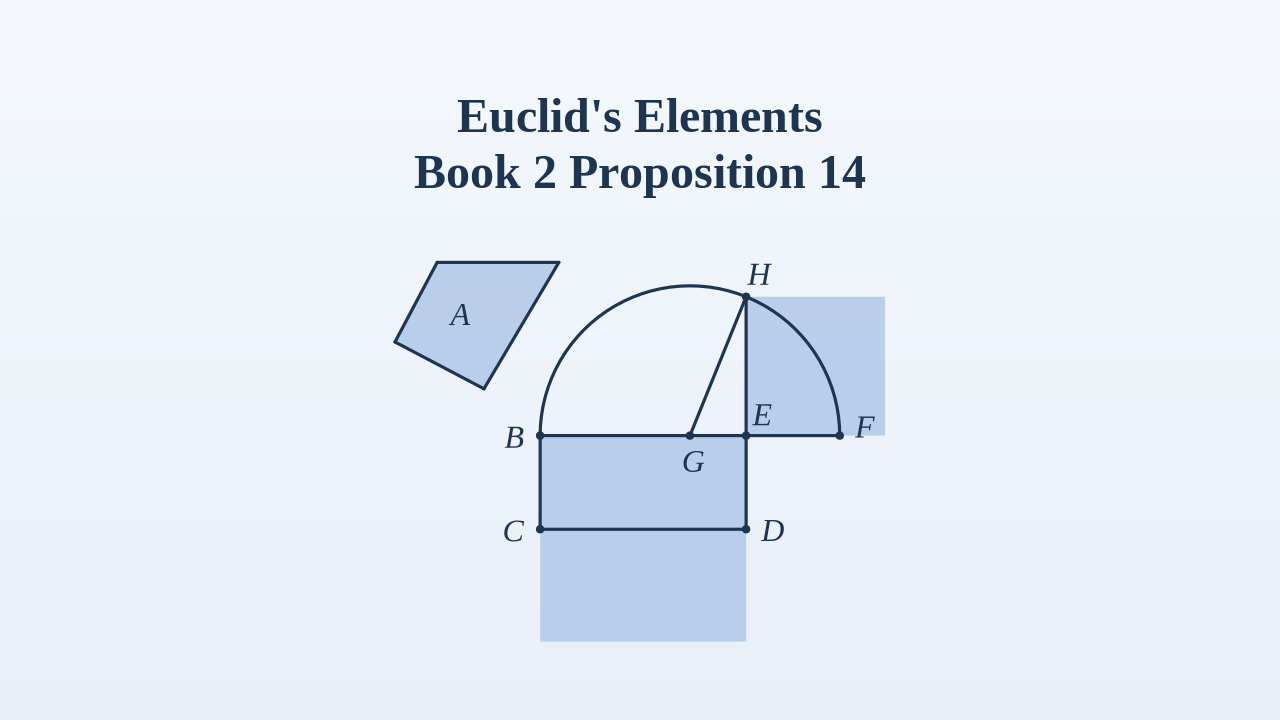
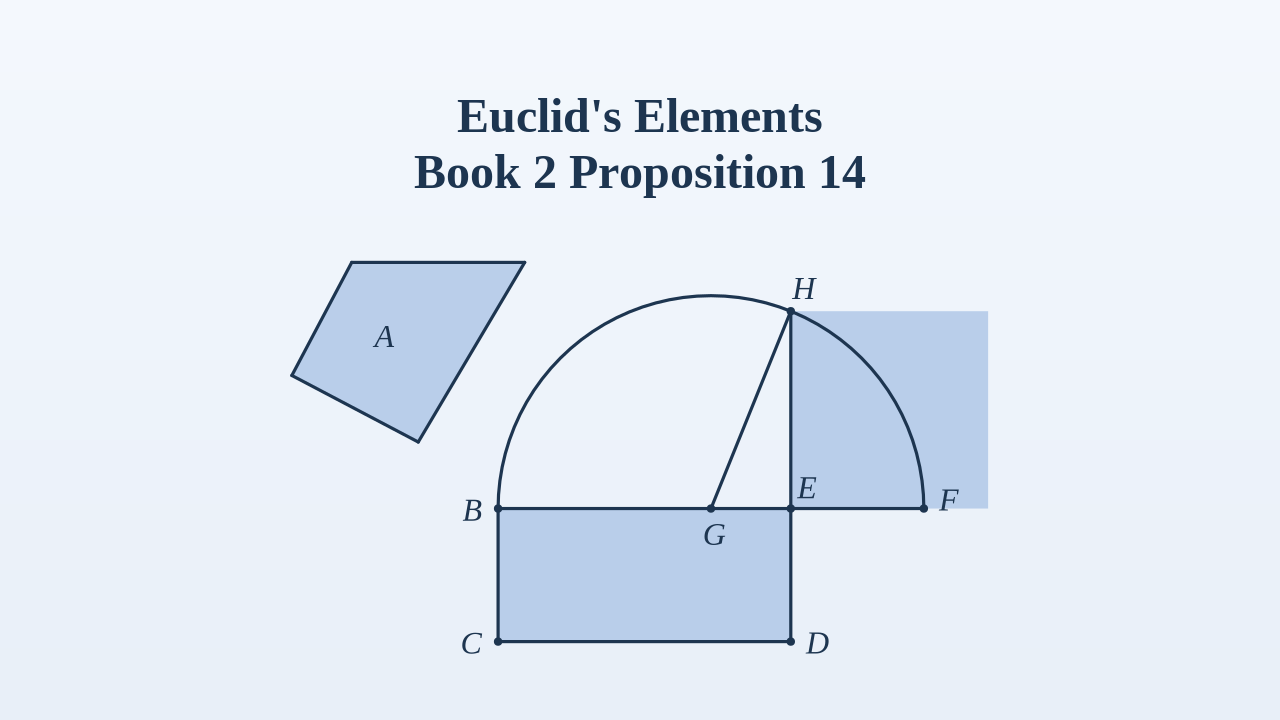
Wash the plate's parallelogram BD on the II.14 thumbnail. (#88)
The case-1 square stood off BE is not on the plate. The wash is the rectangle BD the plate already draws.

Changed region(s): [[0.2188, 0.3361, 0.7812, 0.9167]]

diff --git a/scripts/youtube_book1_thumbs.py b/scripts/youtube_book1_thumbs.py
@@ -1478,18 +1478,12 @@ def prepare(n: int, scene: Scene, book: int = 1) -> None:
         for u, v in SQUARE_QUIET2.get(n, ()):
             scene.join(u, v)
     if book == 2 and n == 14:
-        # Case 1: BE equal to ED, so the parallelogram on BE is already the
-        # square. The plate draws BE greater, so the card stands that square
-        # on BE, downward, on the side of the parallelogram and away from
-        # the semi-circle. The side it stands on is already a plate stroke,
-        # so the outer edges stay quiet.
-        pts = square_outward(scene.at("B"), scene.at("E"), scene.at("H"))
-        scene.pin("Be1", pts[2])
-        scene.pin("Be2", pts[3])
-        # The square on EH, the square the other case produces. The plate
-        # draws the side, not the square. Away from G, so it stands outside
-        # the semi-circle instead of covering the radius. The side it stands
-        # on is already a plate stroke, so the outer edges stay quiet.
+        # The other case produces the square on EH. The plate draws the side,
+        # not the square. Away from G, so it stands outside the semi-circle
+        # instead of covering the radius. The side it stands on is already a
+        # plate stroke, so the outer edges stay quiet. Case 1 is the
+        # parallelogram BD the plate already draws — the wash is that
+        # rectangle, not a square stood off BE, and not a second D.
         pts = square_outward(scene.at("E"), scene.at("H"), scene.at("G"))
         scene.pin("Eh1", pts[2])
         scene.pin("Eh2", pts[3])
@@ -1959,13 +1953,12 @@ WASHES2 = {
     # The square on the side subtending the acute angle, then the squares
     # on the two sides containing it. The plate draws none of them.
     13: [("A", "C", "Ac1", "Ac2"), ("B", "C", "Bc1", "Bc2"), ("B", "A", "Ba1", "Ba2")],
-    # Case 1 is the square on BE: when BE equals ED, that square is the
-    # parallelogram, equal to A. The plate draws BE greater, so the card
-    # stands the square on BE. The other case produces the square on EH,
-    # also equal to A. The plate draws A, and the side EH, not either
-    # square. One hue: the figure and both squares are the same area.
-    # Two hues would say they differ. BD is the construction.
-    14: [("A0", "A1", "A2", "A3"), ("B", "E", "Be1", "Be2"), ("E", "H", "Eh1", "Eh2")],
+    # A, the parallelogram BD, and the square on EH are the same area. BD
+    # is the rectangle the plate draws — the wash is that rectangle, not a
+    # square stood off BE. The other case produces the square on EH. The
+    # plate draws A, and the side EH, not that square. One hue: two hues
+    # would say they differ.
+    14: [("A0", "A1", "A2", "A3"), ("B", "E", "D", "C"), ("E", "H", "Eh1", "Eh2")],
 }
 
 # Hue of each WASHES2 region. 0 is the pale wash, 1 the second. Absent: the
@@ -1994,7 +1987,7 @@ WASH_HUE2 = {
     # first where they meet, so the overlap stays the second hue.
     12: [0, 1, 1],
     13: [0, 1, 1],
-    # A, the square on BE, and the square on EH are the same area.
+    # A, the parallelogram BD, and the square on EH are the same area.
     14: [0, 0, 0],
 }
 
@@ -2057,9 +2050,6 @@ SQUARE_QUIET2: dict[int, tuple[tuple[str, str], ...]] = {
         ("Ba2", "B"),
     ),
     14: (
-        ("E", "Be1"),
-        ("Be1", "Be2"),
-        ("Be2", "B"),
         ("H", "Eh1"),
         ("Eh1", "Eh2"),
         ("Eh2", "E"),
